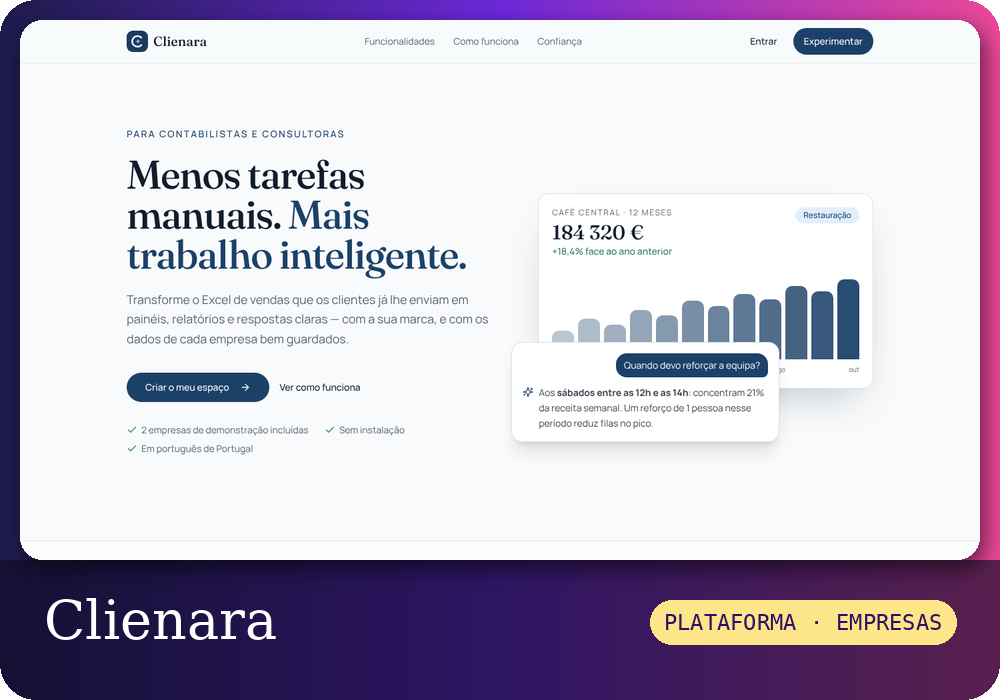
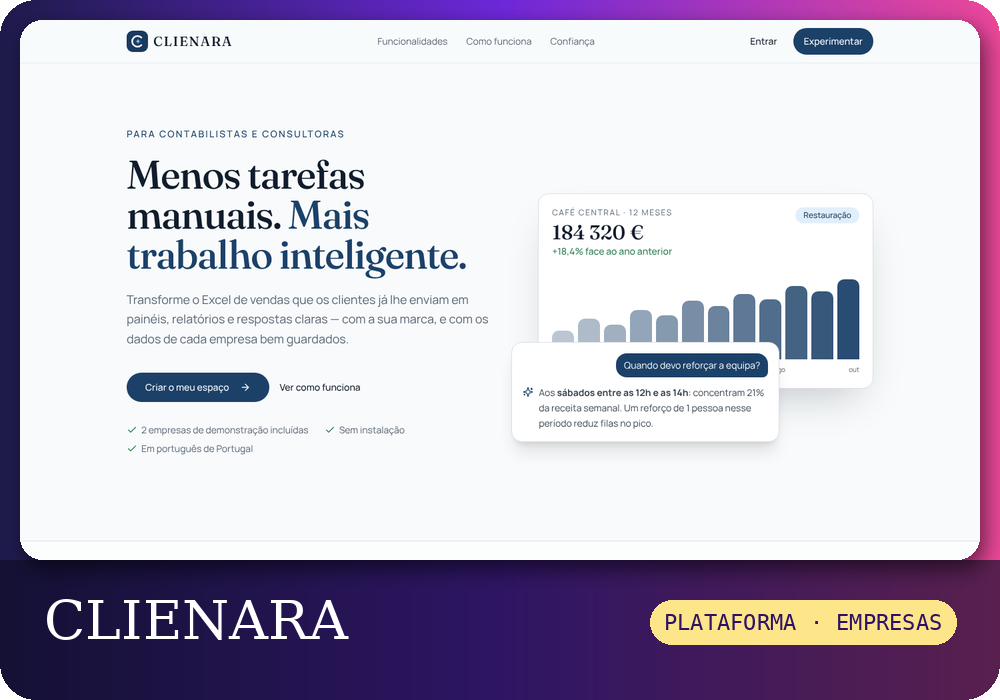
Casos de estudo públicos do BlueTime e da CLIENARA, e CLIENARA em maiúsculas
Claude-Session: https://claude.ai/code/session_019z3RfcBF1L6Bzak6S1TqeJ

diff --git a/casos/clienara.md b/casos/clienara.md
@@ -1,0 +1,253 @@
+<p align="center"><a href="../README.md">← Voltar ao perfil</a></p>
+
+# CLIENARA
+
+**Menos tarefas manuais. Mais trabalho inteligente.**
+
+[Abrir a app](https://clienara.lovable.app) · Projeto de Lenira Leitão
+
+Plataforma SaaS B2B, com IA, onde **parceiros** (gabinetes de contabilidade, consultoras, software houses) oferecem dashboards e relatórios de vendas **com a sua própria marca** às empresas que são seus clientes.
+
+O parceiro carrega o Excel/CSV exportado do software de faturação do cliente. A plataforma valida os dados e gera automaticamente os dashboards e o relatório executivo em PDF. Os dados de cada parceiro e de cada empresa ficam isolados na base de dados.
+
+![Página inicial da CLIENARA](img/clienara-landing.jpg)
+
+| Painel com a marca do parceiro | Pergunte aos seus dados (IA) |
+|---|---|
+| ![Painel](img/clienara-dashboard.jpg) | ![Assistente](img/clienara-assistente-ia.jpg) |
+| **Relatório executivo em PDF** | **Mapeamento inteligente de colunas** |
+| ![Relatório](img/clienara-relatorio.jpg) | ![Carregar dados](img/clienara-upload-mapeamento.jpg) |
+
+> Nas imagens, cada parceiro usa a sua marca (por exemplo "Leitão Insights" ou "Silva Analytics"): é isso que o white-label permite.
+
+## Funcionalidades
+
+| Área | O que faz |
+|---|---|
+| **Multi-tenant** | Hierarquia Super Admin → Parceiro → Empresa → Utilizador. Todas as tabelas têm `partner_id`/`company_id`. O isolamento é imposto por Row Level Security no Postgres. |
+| **Papéis** | **Admin Parceiro** gere empresas, utilizadores e branding. **Gestor Empresa** carrega dados e analisa. **Visualizador** só consulta. Gestores e visualizadores podem ficar limitados a uma empresa. |
+| **Onboarding e convites** | Quem cria conta configura o seu espaço de parceiro, opcionalmente com 2 empresas de demonstração (14 meses de dados). Os convites por email atribuem papel e empresa no registo. |
+| **White-label** | Logótipo, cor primária e secundária, nome da plataforma e título do dashboard. A marca é aplicada em toda a interface, no título e favicon do browser e no PDF. Há pré-visualização ao vivo. |
+| **Upload universal** | `.xlsx`/`.csv` (UTF-8 ou Windows-1252). Pré-visualização das 10 primeiras linhas, com deteção do tipo de cada coluna (data, número, hora, texto). |
+| **Mapeamento inteligente** | Sugere a coluna para cada campo interno a partir do nome (PT/EN) e do tipo detetado. Só avança com Data e Valor definidos. Os modelos de mapeamento podem ser guardados e reutilizados. |
+| **Processamento** | Datas convertidas para ISO (dd/mm/aaaa, séries Excel, datetime). Valores convertidos para número (`1.234,56 €`, `(12,50)`…). Relatório de linhas válidas e inválidas, com o motivo de cada rejeição. Importação por lotes com rollback. O histórico permite anular um upload. |
+| **Dashboard modular** | KPIs com crescimento vs período anterior, evolução diária/semanal/mensal comparada com o período anterior, Top 10 produtos (receita e quantidade), categorias, equipa (receita e nº de transações), métodos de pagamento (donut) e mapa de calor dia × hora. Cada módulo só aparece se o campo correspondente existir nos dados. |
+| **Filtros globais** | Período (com presets), produto, categoria, colaborador e método de pagamento. Atualizam todos os módulos em tempo real. |
+| **Pergunte aos seus dados (IA)** | O cliente escreve perguntas em português ("porque caíram as vendas?", "quando reforçar a equipa?") e recebe respostas baseadas nos números do período e dos filtros ativos. Só são enviados totais agregados, nunca vendas individuais nem dados de clientes. A chamada à IA corre numa edge function autenticada e cada pergunta fica no registo de auditoria. |
+| **Relatório PDF** | Logótipo e cores do parceiro, empresa, período, KPIs, gráficos escolhidos e resumo automático (crescimento, produto líder, horário de maior receita, dia mais forte, melhor colaborador). |
+| **Painel do parceiro** | Empresas ativas, receita agregada, empresas em queda de receita e empresas sem upload há mais de 30 dias, ordenadas por prioridade. |
+| **Segurança e RGPD** | Registo de auditoria gerado por triggers. Exportação dos dados pessoais e dos dados de cada empresa (CSV). Apagamento integral dos dados de uma empresa. Política de privacidade. |
+
+
+## Arquitetura
+
+```mermaid
+flowchart LR
+  subgraph Browser["React SPA"]
+    UI[Páginas + shadcn/ui]
+    Parse["lib/parsing.ts<br/>(xlsx → linhas validadas)"]
+    Analytics["lib/analytics.ts<br/>(KPIs, séries, heatmap, resumo)"]
+    PDF[jsPDF + html2canvas]
+    AICtx["lib/aiContext.ts<br/>(resumo agregado, sem dados pessoais)"]
+  end
+  subgraph Supabase
+    Auth[Auth]
+    PG[(Postgres + RLS)]
+    RPC["Funções SQL<br/>create_partner_workspace · set_user_role<br/>partner_company_stats · erase_company_data"]
+    ST[Storage<br/>partner-assets/&lt;partner_id&gt;/]
+    EF["Edge Function ask-data"]
+  end
+  LLM[(Modelo de IA)]
+  UI --> Parse --> PG
+  PG --> Analytics --> UI
+  Analytics --> PDF
+  UI --> Auth
+  UI --> RPC --> PG
+  UI --> ST
+  Analytics --> AICtx --> EF --> LLM
+```
+
+```mermaid
+erDiagram
+  partners ||--o{ companies : tem
+  partners ||--o{ profiles : "utilizadores"
+  partners ||--o{ partner_invitations : convida
+  companies ||--o{ uploads : recebe
+  uploads ||--o{ sales_data : "importa (cascade)"
+  companies ||--o{ sales_data : tem
+  partners ||--o{ mapping_templates : guarda
+  partners ||--o{ activity_logs : audita
+  profiles }o--|| user_roles : "papel"
+```
+
+### Modelo de segurança
+
+- As regras de acesso estão em **policies RLS**, não só na interface. Os helpers `SECURITY DEFINER` (`get_user_partner_id`, `has_role`, `can_access_company`) evitam recursão nas policies.
+- Os utilizadores só podem alterar o próprio `full_name` (privilégio de coluna). `partner_id`, `company_id` e papéis só mudam através de funções que validam quem chama.
+- Os papéis são atribuídos com `set_user_role()`: um admin só gere utilizadores do seu parceiro e ninguém pode atribuir `super_admin`.
+- No storage, cada parceiro só escreve na pasta `<partner_id>/`.
+- Ao apagar um upload, as linhas que ele importou são apagadas em cascata.
+
+Os testes de segurança contêm **22 verificações** de isolamento. Entre elas: um parceiro não lê nem escreve dados de outro; um utilizador não muda o próprio `partner_id` nem se promove; um visualizador não escreve; um gestor só vê a empresa que lhe foi atribuída.
+
+
+### Testes
+
+- **Unitários** (`npm test`, 39 testes): conversão de datas e valores em formato PT, deteção de tipos, mapeamento automático (incluindo o ficheiro de exemplo completo), KPIs, séries temporais, heatmap, resumo automático e contexto enviado à IA (incluindo a garantia de que não leva dados pessoais).
+- **Segurança** (`supabase/tests/rls_test.sql`): 22 verificações de isolamento multi-tenant, validadas num Supabase local (Postgres 17).
+- **Ponta a ponta**: percurso completo no browser com Playwright (registo, onboarding com dados demo, filtros, upload, PDF, branding, convite e acesso restrito de um visualizador).
+
+
+## Roadmap
+
+- Envio de convites e relatórios por email (Resend) e relatórios agendados
+- Ligação direta a software de faturação (SAF-T PT, APIs de POS) em vez de upload manual
+- Subdomínio e domínio próprio por parceiro
+- Agregações no servidor para volumes muito grandes
+
+
+---
+
+## Como foi construída
+
+O que aprendi a fazer esta app, com os problemas reais e as soluções.
+
+## Lição 1 — Uma app "bonita" não é uma app pronta
+
+A primeira versão foi gerada pelo Lovable. Tinha login, menus e páginas, e parecia completa. Uma revisão do código mostrou outra realidade:
+
+- a página de relatórios dizia "será implementada em breve";
+- um utilizador novo não tinha empresa nem papel, por isso via tudo vazio;
+- valores como `1.234,56 €` eram guardados como `1,23`.
+
+**O que aprendi:** antes de mostrar um projeto, abro cada página e faço o percurso completo como se fosse um cliente: criar conta → carregar dados → ver o resultado.
+
+**Prompt útil:**
+> Revê o projeto como um utilizador novo. Lista, por página, o que está implementado, o que é só visual e o que falha. Não alteres nada ainda.
+
+---
+
+## Lição 2 — Segurança multi-cliente: o erro que ninguém vê
+
+Numa plataforma com vários clientes, cada um só pode ver os seus dados. A primeira versão tinha regras de segurança (RLS) na base de dados, mas uma delas deixava cada pessoa **editar o próprio perfil por inteiro**, incluindo o campo `partner_id`. Na prática, qualquer pessoa que criasse conta podia mudar esse campo e ler as vendas de qualquer parceiro.
+
+Isto foi provado num teste antes de ser corrigido:
+
+```sql
+-- utilizador desconhecido muda o seu partner_id para o da vítima…
+UPDATE profiles SET partner_id = '<id da vítima>' WHERE user_id = auth.uid();
+-- …e passa a ler as vendas dela
+SELECT sum(amount) FROM sales_data;  -- 999.00
+```
+
+**A solução:**
+
+- O utilizador só pode alterar o próprio nome:
+  ```sql
+  REVOKE UPDATE ON profiles FROM authenticated;
+  GRANT UPDATE (full_name) ON profiles TO authenticated;
+  ```
+- Mudar de parceiro, empresa ou papel só é possível através de funções na base de dados que verificam quem está a pedir (`set_user_role`, `create_partner_workspace`).
+- Há um ficheiro de testes, `supabase/tests/rls_test.sql`, com 22 verificações. Por exemplo: o parceiro B não lê o parceiro A, um visualizador não escreve e um gestor só vê a sua empresa.
+
+**O que aprendi:** "tem RLS" não quer dizer "está seguro". É preciso **tentar entrar como atacante** e confirmar que falha.
+
+**Prompt útil:**
+> Escreve um teste SQL que crie dois parceiros e prove que um não consegue ler, escrever nem mudar papéis no outro. Inclui tentativas de alterar o próprio partner_id e de se atribuir um papel de administrador.
+
+---
+
+## Lição 3 — Regras de segurança também podem ser lentas
+
+Com 32 mil vendas, o painel do parceiro demorava **10,8 segundos**. A causa era a regra de segurança chamar uma função **para cada linha**.
+
+**A solução:** calcular uma vez a lista de empresas a que o utilizador tem acesso e comparar com essa lista:
+
+```sql
+-- antes: avaliado 32 000 vezes
+USING (public.can_access_company(company_id))
+-- depois: avaliado uma vez por consulta
+USING (company_id IN (SELECT public.accessible_company_ids()))
+```
+
+Resultado: **46 milissegundos**.
+
+**O que aprendi:** testar sempre com volume realista. Uma app com 10 linhas de exemplo esconde problemas que só aparecem com dados reais.
+
+---
+
+## Lição 4 — Dados portugueses são diferentes
+
+Os ficheiros que os clientes exportam trazem:
+
+- datas `05/03/2026` (dia primeiro);
+- valores `1.234,56 €`;
+- CSV gravado em Windows-1252, com acentos estragados;
+- colunas chamadas "Artigo", "Família", "Qtd" ou "Total (€)".
+
+**A solução** está em `src/lib/parsing.ts` e faz quatro coisas:
+
+1. Converte datas para o formato ISO, aceitando também números de série do Excel.
+2. Converte valores em formato PT para número.
+3. Deteta o tipo de cada coluna (data, número, hora ou texto).
+4. **Sugere o mapeamento** de cada coluna pelo nome e pelo tipo. Depois, mostra linha a linha porque é que uma linha foi rejeitada ("Linha 14: Valor inválido: "grátis"").
+
+**O que aprendi:** a parte "aborrecida" (limpar dados) é a que faz o cliente confiar no resultado. E é muito fácil de testar automaticamente. Há 34 testes só para isto e para os cálculos.
+
+---
+
+## Lição 5 — IA útil, com privacidade
+
+O botão "Perguntar aos dados" deixa o cliente escrever, por exemplo, *"Quando devo reforçar a equipa?"*.
+
+**A decisão importante foi o que é enviado à IA:**
+
+- **não** são enviadas as vendas individuais, nem os clientes, nem os números de documento;
+- é enviado **um resumo agregado** (`src/lib/aiContext.ts`): totais, crescimento, receita por produto, por dia da semana e por hora, e os picos de faturação;
+- um teste garante que esse resumo não contém dados pessoais e que não ultrapassa o tamanho máximo.
+
+A chamada à IA acontece numa *edge function* (`supabase/functions/ask-data`). Assim, nenhuma chave fica no browser. A função também verifica se o utilizador tem sessão e regista cada pergunta na auditoria.
+
+As instruções dadas à IA (o "prompt de sistema") obrigam-na a:
+
+- responder em português de Portugal;
+- usar **apenas** os números recebidos e dizer quando não sabe;
+- terminar com 1 ou 2 sugestões práticas.
+
+**Prompt útil:**
+> Cria uma edge function que receba uma pergunta e um resumo agregado dos dados, chame o modelo de IA com um prompt de sistema em português de Portugal que proíba inventar números, e devolva só a resposta. Valida a sessão do utilizador e limita o tamanho da pergunta.
+
+---
+
+## Lição 6 — Identidade própria
+
+A identidade da CLIENARA nasceu com a ideia: um nome próprio, curto, que se diz bem em português e em inglês, e uma frase que resume o que a app faz pelo parceiro, «Menos tarefas manuais. Mais trabalho inteligente.»
+
+- **Cores:**
+  - azul-noite `#1B3A5F` como cor de ação e dos títulos;
+  - azul-claro `#7CC4F0` / `#3BA3D9` como acento;
+  - fundo branco-frio, para os números se lerem bem.
+- **Tipografia:** *Fraunces* (serifa) nos títulos e *Manrope* no texto.
+- **Barra lateral clara** em vez da escura habitual.
+- **Ícone:** um "C" com uma pequena estrela, o trabalho inteligente.
+
+O projeto começou com o nome Montra (paleta terracota). Ao mudar para CLIENARA, só foi preciso trocar o nome em `src/config/product.ts` e as cores em `src/index.css`, porque a identidade do produto está separada da marca de cada parceiro.
+
+Como é white-label, cada parceiro troca as cores pelas suas. A identidade CLIENARA só aparece nas páginas públicas.
+
+**Prompt útil:**
+> Antes de criar componentes, define uma identidade: nome, 5 cores com função (fundo, texto, ação, secundária, alerta), 2 tipos de letra e um elemento visual distintivo. Evita azul-marinho e dourado. Aplica-a como variáveis CSS.
+
+---
+
+## Lição 7 — Provar que funciona
+
+O que distingue um projeto de portfólio de um protótipo é a **prova**:
+
+| Tipo de teste | Onde | O que garante |
+|---|---|---|
+| Unitários (39) | `src/test/` | conversões PT, mapeamento automático, KPIs, heatmap, resumo e contexto da IA |
+| Segurança (22) | `supabase/tests/rls_test.sql` | isolamento entre parceiros e empresas |
+| Ponta a ponta | Playwright, no browser | registo → dados demo → filtros → upload → PDF → convite → acesso restrito |
+
+---

diff --git a/casos/bluetime.md b/casos/bluetime.md
@@ -1,0 +1,119 @@
+<p align="center"><a href="../README.md">← Voltar ao perfil</a></p>
+
+# BlueTime Agenda
+
+Marcações online para salões, barbearias e espaços de estética, em Portugal.
+O dono cria a conta e recebe um link de marcação próprio; os clientes marcam por esse link,
+sem criar conta, e recebem lembretes por WhatsApp.
+
+**App:** https://agenda-fluxo-azul.lovable.app · **Caso de estudo:** [/caso-de-estudo](https://agenda-fluxo-azul.lovable.app/caso-de-estudo) · **Exemplo:** [barbearia de demonstração](https://agenda-fluxo-azul.lovable.app/demo/barbearia-classic)
+
+> Versão de demonstração (portefólio): todas as funcionalidades estão abertas e os pagamentos não estão ativos.
+
+---
+
+## O que faz
+
+**Para o cliente (sem conta)**
+- Escolhe o serviço, o profissional (opcional) e uma hora livre, no telemóvel.
+- Recebe lembrete por WhatsApp na véspera e 3 horas antes, no idioma em que marcou.
+- Cancela ou remarca pelo link que recebe, sem telefonemas.
+
+**Para o dono**
+- Agenda, marcações com filtros e pesquisa, clientes com histórico e faltas.
+- Equipa, horários semanais, pausas, folgas e feriados.
+- Regras por serviço: tempo de preparação e de limpeza, intervalo entre marcações, limite por dia,
+  profissionais que o fazem e horas em que pode ser marcado.
+- Página de marcação com as cores, o logótipo e o link do espaço.
+- Relatório mensal em PDF e Excel, faturação por profissional e por serviço.
+- Stock de produtos com alerta de mínimos.
+- Português e Inglês, escolhido por cada pessoa.
+- Notificações com som no telemóvel ou no computador quando entra uma marcação, mesmo com a app fechada.
+
+## Arquitetura
+
+```mermaid
+flowchart LR
+  C[Cliente<br/>sem conta] -->|link /salao/:slug| SPA
+  D[Dono] -->|sessão| SPA
+  SPA[React + Vite<br/>Lovable hosting] -->|RPC públicas| PG[(Postgres<br/>Supabase)]
+  SPA -->|tabelas com RLS| PG
+  CRON[pg_cron<br/>15 em 15 min] -->|x-cron-secret| EF[Edge function<br/>send-reminders]
+  EF --> PG
+  EF -->|modelos aprovados| WA[WhatsApp Cloud API]
+  PG -->|trigger: nova marcação| PUSH[Edge function<br/>push]
+  PUSH -->|Web Push| DEV[Telemóveis e computadores<br/>do dono]
+  PG -.->|Realtime| SPA
+```
+
+| Camada | Escolha |
+|---|---|
+| Interface | React 18, TypeScript, Vite, Tailwind, shadcn/ui |
+| Dados e autenticação | Supabase (Postgres, Auth, Storage, Realtime, Edge Functions) |
+| Datas | `date-fns-tz`, sempre em `Europe/Lisbon` |
+| Exportação | jsPDF e ExcelJS, carregados só quando se descarrega |
+| Notificações | Web Push com service worker próprio e Supabase Realtime |
+| Testes | Vitest (regras), Playwright (fluxos no browser, computador e telemóvel) e axe (acessibilidade) |
+
+## Decisões técnicas
+
+**Dois clientes não conseguem ficar com a mesma hora.** A página só mostra horas livres, mas isso não chega: dois
+clientes podem carregar em "Confirmar" no mesmo segundo. A marcação é criada por uma função na base de dados
+(`create_public_booking`) que bloqueia a agenda do espaço (`pg_advisory_xact_lock`), volta a calcular as horas livres
+e só então grava. Se a hora já foi ocupada, devolve `slot_taken` e a página pede outra hora.
+
+**As regras de cada serviço contam nas horas livres.** O mesmo cálculo das horas livres
+(`_compute_available_slots`) é usado para mostrar horas, criar e remarcar. Cada marcação ocupa da preparação até ao fim
+do intervalo obrigatório; um serviço que atingiu o limite do dia deixa de ter horas; só aparecem os profissionais
+escolhidos e, se houver, só as horas permitidas para esse serviço.
+
+**Cada espaço só vê os seus dados.** Todas as tabelas têm Row Level Security por `business_owner_id`, com
+`(select auth.uid())` para a verificação ser feita uma vez por pedido. Quem não tem sessão só lê as seis tabelas que a
+página pública usa (perfil do salão, serviços, destaques e demonstrações); o resto chega-lhe apenas por funções
+`SECURITY DEFINER` que devolvem o necessário (por exemplo, `get_public_staff` devolve nome e cargo, sem telefones nem
+emails). Os ficheiros (logótipos, capas) só podem ser alterados pelo dono.
+
+**O histórico nunca se perde.** Apagar um cliente ou um serviço com marcações é bloqueado na base de dados
+(`ON DELETE RESTRICT`). Para pedidos de eliminação ao abrigo do RGPD, `anonymize_client` apaga os dados pessoais e
+mantém as marcações, para a faturação e os relatórios continuarem certos.
+
+**Só os donos criam conta.** Ao registar-se, um trigger cria o perfil, o espaço e um link único a partir do nome
+(`Salão Água Clara` → `/salao/salao-agua-clara`). O cliente nunca precisa de conta.
+
+**Avisos de novas marcações, mesmo com a app fechada.** Quando um cliente marca pelo link, um trigger na base de dados
+chama a função `push`, que envia uma notificação Web Push (com som) a todos os dispositivos do dono que a ativaram.
+As chaves VAPID são criadas pela própria função e ficam guardadas na base de dados, fora do código. Com a app aberta,
+qualquer página da área de gestão mostra o aviso e atualiza as listas em tempo real.
+
+**Lembretes sem spam.** Só recebe quem deu consentimento ao marcar. O `pg_cron` chama a função de envio de 15 em 15
+minutos com um segredo verificado na base de dados; cada lembrete é marcado como enviado e, depois de 3 falhas,
+deixa de ser tentado. Sem credenciais da Meta, os lembretes aparecem no painel para enviar com um toque.
+
+**Acessível.** Todas as páginas, públicas e de gestão, passam a verificação axe (WCAG 2.1 AA) sem problemas graves,
+no computador e no telemóvel. A verificação faz parte dos testes automáticos.
+
+**Traduções verificadas.** O texto português é a chave (`t('Guardar')`) e o inglês está em `src/i18n/en.ts`, carregado
+só por quem usa inglês. Um teste percorre o código e falha se algum texto ficar sem tradução.
+
+## Em números
+
+| | |
+|---|---|
+| TypeScript | cerca de 15 800 linhas |
+| SQL | cerca de 8 300 linhas, em 123 migrações |
+| Testes | 70 (31 às regras, 39 no browser, incluindo 22 páginas verificadas quanto a acessibilidade) |
+| Traduções | 1 145 textos em português e inglês |
+
+
+## Em falta (honestamente)
+
+- Pagamentos (Stripe) em modo de teste; ativam-se com `VITE_BILLING_ENABLED=true`.
+- Envio automático por WhatsApp à espera da aprovação dos modelos na Meta.
+- Preço por dia e hora (preço dinâmico): ficou fora; o preço é o do serviço.
+- Domínio próprio e monitorização de erros.
+- No Supabase: ativar a proteção contra palavras-passe expostas e atualizar o Postgres.
+- Utilizadores reais: o próximo passo é pôr um ou dois salões a usar e medir faltas antes e depois.
+
+---
+
+Feito por Lenira Leitão, em homenagem a Cuxe Lopes, cabeleireira durante mais de 30 anos.

diff --git a/README.md b/README.md
@@ -62,7 +62,7 @@ Lê em voz alta PDFs e fotografias de cartas que o telemóvel não consegue ler,
 **[BlueTime Agenda](https://agenda-fluxo-azul.lovable.app)**<br>
 <sub>APP · SALÕES E BARBEARIAS</sub>
 
-Marcações online com lembretes por WhatsApp e avisos para o salão. [Caso de estudo](https://agenda-fluxo-azul.lovable.app/caso-de-estudo)
+Marcações online com lembretes por WhatsApp e avisos para o salão. [Caso de estudo](https://agenda-fluxo-azul.lovable.app/caso-de-estudo) · [Como foi feito](casos/bluetime.md)
 
 </td>
 </tr>
@@ -79,12 +79,12 @@ Tira uma foto a uma carta das Finanças e explica o que é, quanto pagar e até 
 </td>
 <td width="50%" valign="top">
 
-<a href="https://clienara.lovable.app"><img src="projetos/clienara.png" alt="Clienara" width="100%"></a>
+<a href="https://clienara.lovable.app"><img src="projetos/clienara.png" alt="CLIENARA" width="100%"></a>
 
-**[Clienara](https://clienara.lovable.app)**<br>
+**[CLIENARA](https://clienara.lovable.app)**<br>
 <sub>PLATAFORMA · AUTOMAÇÃO PARA EMPRESAS</sub>
 
-Menos tarefas manuais, mais trabalho inteligente: clientes, documentos e processos organizados num só lugar.
+Menos tarefas manuais, mais trabalho inteligente: o Excel de vendas dos clientes vira painéis, relatórios em PDF e respostas da IA, com a marca de cada parceiro. [Como foi feita](casos/clienara.md)
 
 </td>
 </tr>
